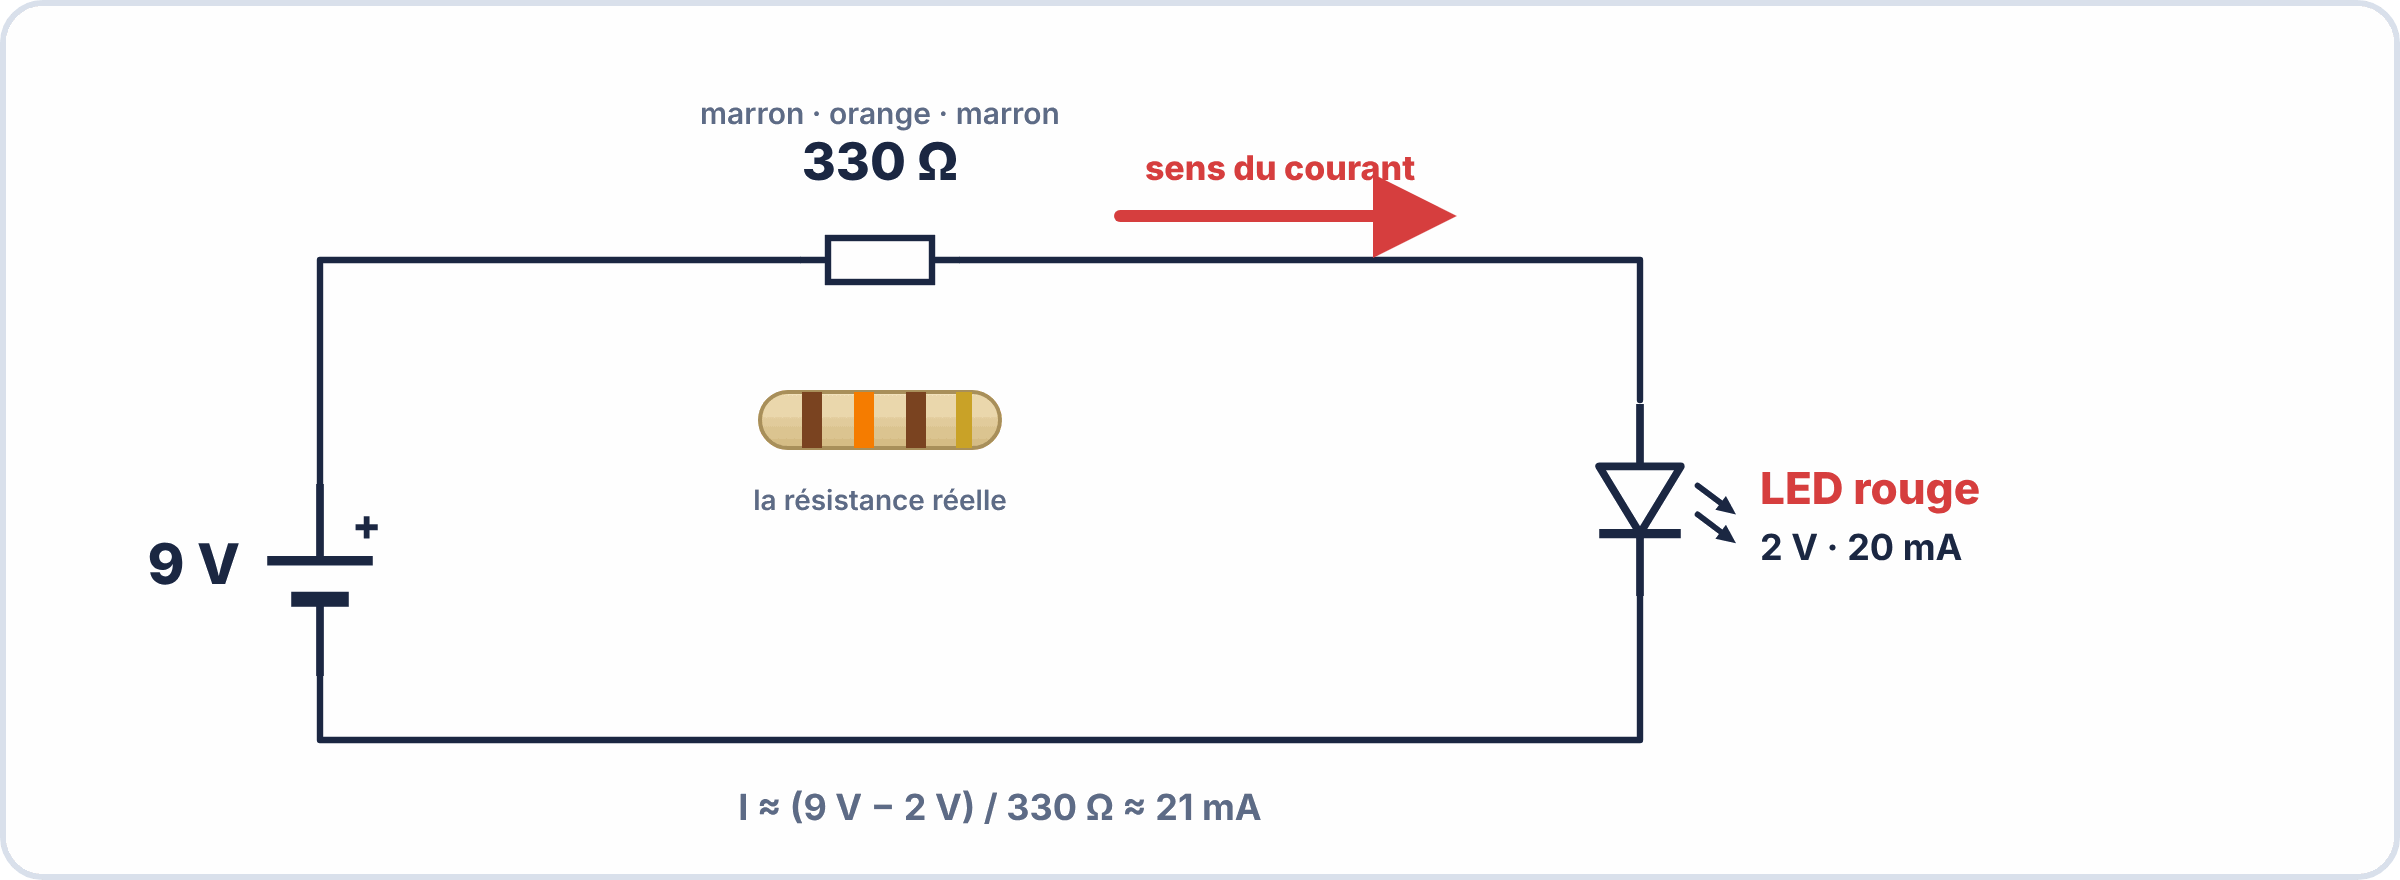
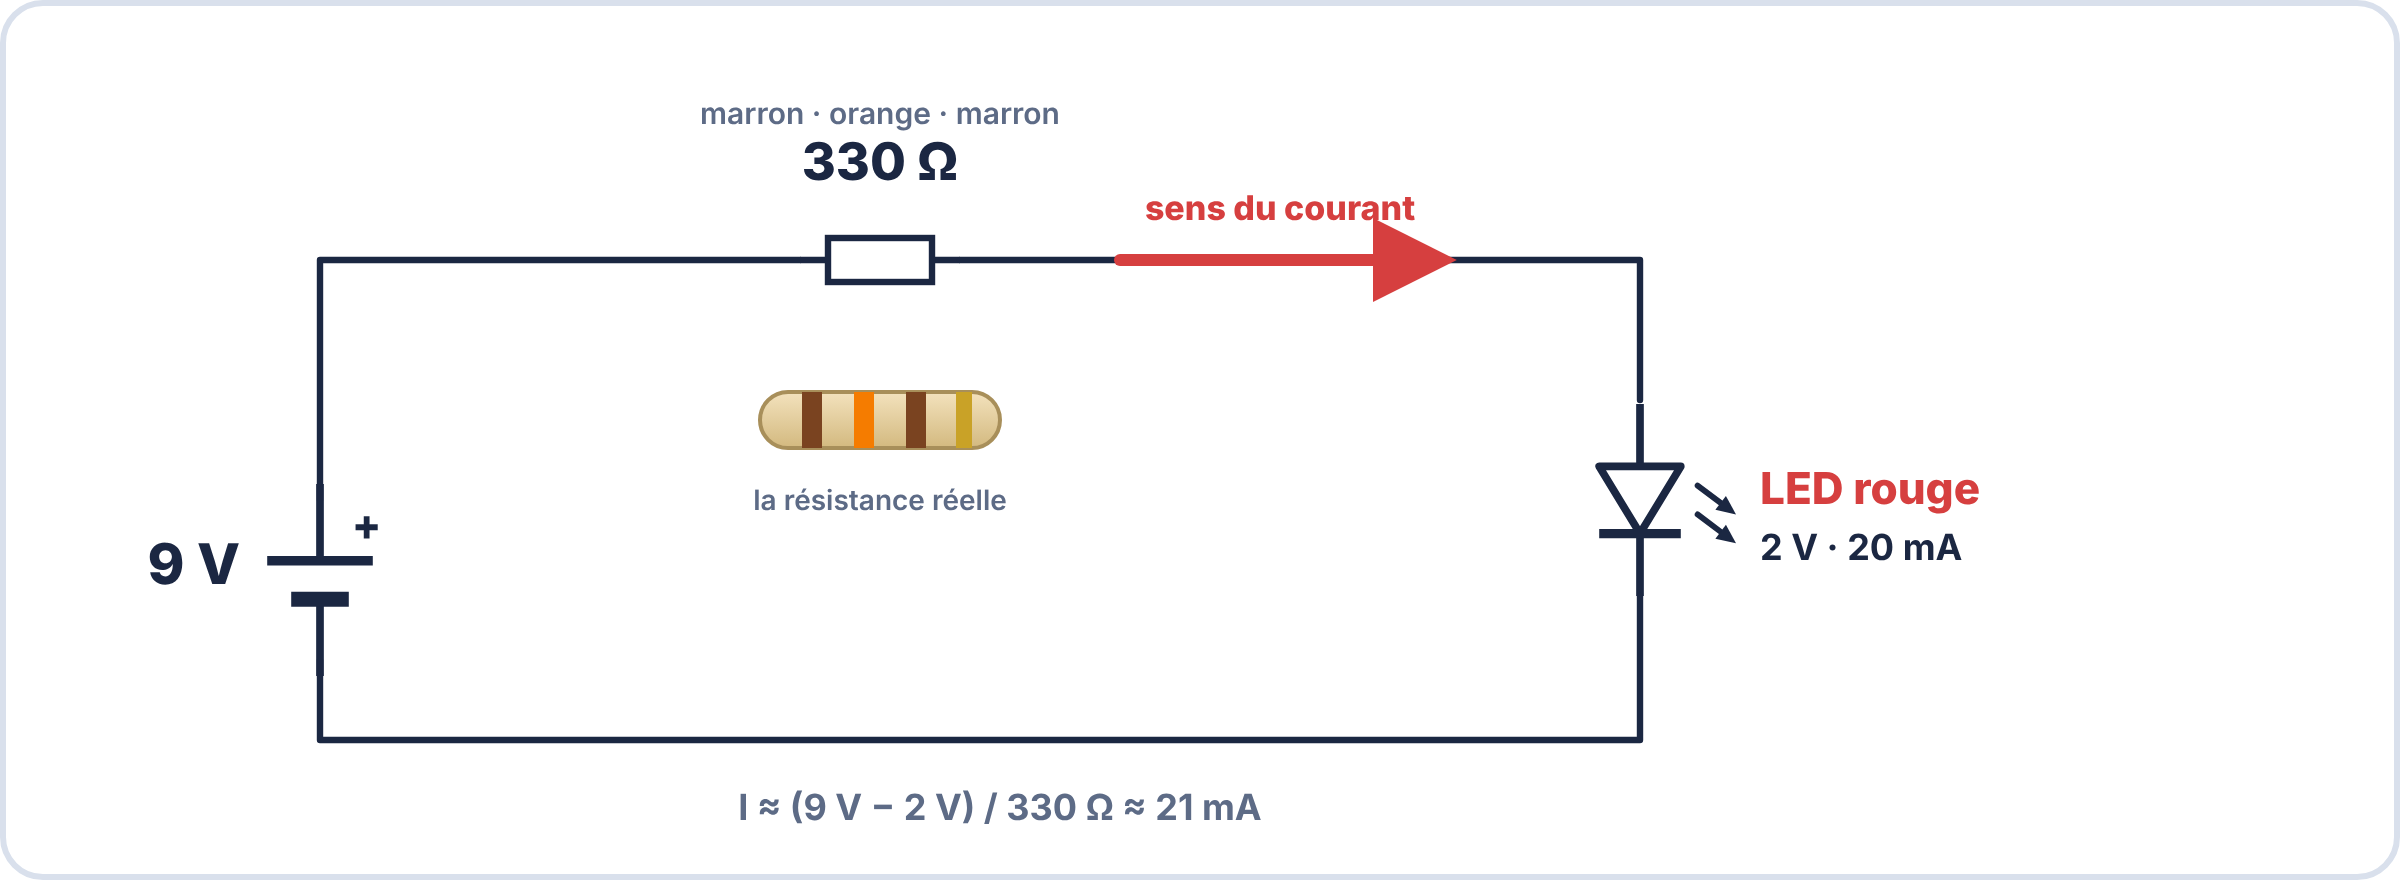
Figures : convention flèches (courant rouge sur la piste, tension verte hors piste) ; DEL du câblage breadboard ; fils +/− du câblage incorrect
Claude-Session: https://claude.ai/code/session_018Ln2Xo12prChdSPrkdSn9D

Changed region(s): [[0.4688, 0.1841, 0.625, 0.3375]]

diff --git a/outils/illustrations-e2/figs_sec5.py b/outils/illustrations-e2/figs_sec5.py
@@ -9,7 +9,7 @@ def f_led_serie():
     o = o.replace("", "")
     o += s_wire([(L, Tp), (R, Tp)]) if False else ""
     o += hrun(Tp, L, R, [(430, "R", "R", {}), (680, "LED", "LED 1", {"below": True}), (900, "LED", "LED 2", {"below": True})]) + s_wire([(R, Tp), (R, B)]) + s_wire([(R, B), (L, B)])
-    o += arrow(220, Tp - 30, 360, Tp - 30, RED, 5) + T(290, Tp - 40, "I", 20, 800, RED) + arrow(R + 40, 170, R + 40, 280, RED, 5) if False else arrow(250, Tp - 56, 360, Tp - 56, RED, 5) + T(300, Tp - 66, "I", 22, 800, RED)
+    o += arrow(220, Tp - 30, 360, Tp - 30, RED, 5) + T(290, Tp - 40, "I", 20, 800, RED) + arrow(R + 40, 170, R + 40, 280, RED, 5) if False else i_arrow(250, Tp, 360, Tp, "I", off=(0, -26), size=22)
     o += T(600, 235, "le même courant I traverse tous les composants", 20, 700, RED)
     o += f'<rect x="130" y="370" width="940" height="130" rx="14" fill="{PANEL}" stroke="#d9e0ec" stroke-width="2"/>'
     o += T(600, 412, "Les tensions s'additionnent : 12 V = U_R + V_F1 + V_F2", 21, 700, INK) + T(600, 452, "R = (12 − 2 − 2) / 0,020 = 400 Ω", 24, 800, BLUE) + T(600, 484, "avec V_F = 2 V par LED rouge et I = 20 mA", 16, 500, MUTED)
@@ -22,8 +22,8 @@ def f_led_parallele():
     for x, nm in ((X1, "LED 1"), (X2, "LED 2")):
         o += s_wire([(J, Tp), (x, Tp)]) + vrun(x, Tp, B, [(230, "LED", nm, {})], 1, 60) + (dot(x, Tp) if x == X1 else "") + (dot(x, B) if x == X1 else "")
     o += s_wire([(L, B), (X2, B)])
-    o += arrow(220, Tp - 56, 330, Tp - 56, RED, 5) + T(262, Tp - 66, "I total", 19, 800, RED)
-    o += arrow(X1 - 40, 160, X1 - 40, 200, RED, 4) + T(X1 - 70, 188, "I1", 18, 800, RED) + arrow(X2 - 40, 160, X2 - 40, 200, RED, 4) + T(X2 - 70, 188, "I2", 18, 800, RED)
+    o += i_arrow(195, Tp, 265, Tp, "I total", off=(0, -26), size=19)
+    o += i_arrow(X1, 150, X1, 190, "I1", off=(-14, 0), size=18, w=4) + i_arrow(X2, 150, X2, 190, "I2", off=(-14, 0), size=18, w=4)
     o += f'<rect x="130" y="385" width="940" height="125" rx="14" fill="{PANEL}" stroke="#d9e0ec" stroke-width="2"/>'
     o += T(600, 425, "Même tension V_F aux bornes de chaque branche · I total = I1 + I2", 20, 700, INK) + T(600, 465, "R = (9 − 2) / (2 × 0,020) = 175 Ω", 24, 800, BLUE) + T(600, 495, "la résistance commune supporte le courant des deux LED", 16, 500, MUTED)
     return figure(W, 540, o)
@@ -41,13 +41,21 @@ def f_cablage_ok_ko():
         def wire(p, q, col): return f'<path d="M{p[0]},{p[1]} L{q[0]},{q[1]}" stroke="{col}" stroke-width="5" stroke-linecap="round"/>'
         def res(p, q): return f'<rect x="{p[0]-2}" y="{p[1]-6}" width="{q[0]-p[0]+4}" height="12" rx="4" fill="#e9d4a3" stroke="#a88"/>' + f'<rect x="{p[0]+14}" y="{p[1]-6}" width="4" height="12" fill="#7a4320"/><rect x="{p[0]+24}" y="{p[1]-6}" width="4" height="12" fill="#000"/><rect x="{p[0]+34}" y="{p[1]-6}" width="4" height="12" fill="#7a4320"/>'
         def resv(p, q): return f'<rect x="{p[0]-6}" y="{p[1]-2}" width="12" height="{q[1]-p[1]+4}" rx="4" fill="#e9d4a3" stroke="#a88"/>' + ''.join(f'<rect x="{p[0]-6}" y="{p[1]+10+i*10}" width="12" height="4" fill="{c}"/>' for i, c in enumerate(("#7a4320", "#000", "#7a4320")))
-        def led(a, k): 
+        def led(a, k):
             cx = (a[0] + k[0]) / 2
-            return f'<path d="M{a[0]},{a[1]} V{a[1]-12} M{k[0]},{k[1]} V{k[1]-12}" stroke="#bbb" stroke-width="3"/><circle cx="{cx}" cy="{a[1]-18}" r="13" fill="#e5353b" stroke="#a11"/>'
+            by = min(a[1], k[1]) - 26          # base du boîtier
+            hw = 10                            # demi-largeur du boîtier
+            xa, xk = (cx - 6, cx + 6) if a[0] <= k[0] else (cx + 6, cx - 6)
+            ya, yk = a[1] - 8, k[1] - 8
+            legs = (f'<path d="M{a[0]},{a[1]} V{ya} L{xa},{by}" fill="none" stroke="#aaa" stroke-width="3" stroke-linecap="round" stroke-linejoin="round"/>'
+                    f'<path d="M{k[0]},{k[1]} V{yk} L{xk},{by}" fill="none" stroke="#aaa" stroke-width="3" stroke-linecap="round" stroke-linejoin="round"/>')
+            body = (f'<path d="M{cx-hw},{by} V{by-6} A{hw},{hw} 0 0 1 {cx+hw},{by-6} V{by} Z" fill="#e5353b" stroke="#a11" stroke-width="1.5"/>'
+                    f'<rect x="{cx-hw-2}" y="{by-2}" width="{2*hw+4}" height="4" rx="2" fill="#c42a30" stroke="#a11" stroke-width="1"/>')
+            return legs + body
         if ok:
             inner += wire(bb.rail(0, "T+"), xy(2, "a"), RED) + res(xy(2, "c"), xy(6, "c")) + led(xy(6, "a"), xy(9, "a")) + wire(xy(9, "b"), bb.rail(10, "T-"), "#111")
         else:
-            inner += wire(bb.rail(0, "T-"), xy(2, "a"), "#111") + resv(xy(2, "b"), xy(2, "e")) + led(xy(6, "a"), xy(6, "b")) + wire(xy(9, "b"), bb.rail(10, "T+"), RED)
+            inner += wire(bb.rail(0, "T+"), xy(2, "a"), "#111") + resv(xy(2, "b"), xy(2, "e")) + led(xy(6, "a"), xy(6, "b")) + wire(xy(9, "b"), bb.rail(10, "T-"), RED)
         return g(ox + 60, 90, inner, s)
     o += duo(0, 0, "Câblage CORRECT", "Câblage INCORRECT", GREEN, RED, h=770, wa=570)
     o += board(40, True) + board(630, False)

diff --git a/outils/illustrations-e2/figs01.py b/outils/illustrations-e2/figs01.py
@@ -113,7 +113,7 @@ def f_diode_led():
     o += callout(120, 190, 100, 245, "anode (A)", "middle", 17, bold=True)
     o += sym("D", 440, 190, s=1.1)
     o += T(404, 236, "A", 19, 800, INK) + T(476, 236, "K", 19, 800, INK)
-    o += arrow(150, 330, 450, 330, GREEN, 5) + T(300, 312, "sens passant du courant", 18, 700, GREEN)
+    o += i_arrow(150, 330, 450, 330, "sens passant du courant", off=(0, -22), size=18)
     o += T(300, 380, "Le courant passe de A vers K, jamais en sens inverse.", 17, 500, MUTED)
     # carte LED
     o += panel(610, 40, 560, 400, "LED (diode électroluminescente)")
@@ -182,24 +182,24 @@ def f_serie_parallele():
         o += s_wire([(L, 210), (L, 130), (px + 470 if k == 0 else px + 470, 130)])
         o += s_wire([(L, 290), (L, 370), (px + 470, 370)])
         o += sym("BAT", L, 250, 90)
-        o += arrow(px + 38, 300, px + 38, 200, BLUE, 4) + T(px + 26, 255, "U", 22, 800, BLUE, "end")
+        o += u_arrow(px + 38, 300, px + 38, 200, "U", off=(-14, 0), size=22)
         if k == 0:
             R = px + 470
             for j in range(3):
                 o += sym("R", R, 170 + j * 80, 90)
-                o += arrow(R - 52, 195 + j * 80, R - 52, 145 + j * 80, BLUE, 4) + T(R - 66, 175 + j * 80, f"U{j+1}", 19, 800, BLUE, "end")
+                o += u_arrow(R - 52, 195 + j * 80, R - 52, 145 + j * 80, f"U{j+1}", off=(-14, 0), size=19)
                 o += T(R + 48, 176 + j * 80, f"R{j+1}", 20, 800, INK, "start")
-            o += arrow(px + 250, 130 - 16, px + 320, 130 - 16, GREEN, 5) + T(px + 285, 88, "I (identique)", 19, 800, GREEN)
+            o += i_arrow(px + 250, 130, px + 330, 130, "I (identique)", off=(0, -26), size=19)
             fm = "Même courant : I = I₁ = I₂ = I₃\nU = U₁ + U₂ + U₃\nR = R₁ + R₂ + R₃"
         else:
             for j, X in enumerate((px + 250, px + 360, px + 470)):
                 o += s_wire([(X, 130), (X, 210)]) + s_wire([(X, 290), (X, 370)])
                 o += sym("R", X, 250, 90) + T(X + 30, 256, f"R{j+1}", 20, 800, INK, "start")
-                o += arrow(X - 22, 160, X - 22, 195, GREEN, 4) + T(X - 30, 185, f"I{j+1}", 18, 800, GREEN, "end")
+                o += i_arrow(X, 150, X, 190, f"I{j+1}", off=(-14, 0), size=18)
                 if j < 2:
                     o += dot(X, 130) + dot(X, 370)
             o += s_wire([(px + 470, 130), (px + 250, 130)]) + s_wire([(px + 470, 370), (px + 250, 370)])
-            o += arrow(L + 20, 112, L + 90, 112, GREEN, 5) + T(L + 55, 90, "I total", 19, 800, GREEN)
+            o += i_arrow(L + 20, 130, L + 100, 130, "I total", off=(0, -26), size=19)
             fm = "Même tension : U = U₁ = U₂ = U₃\nI = I₁ + I₂ + I₃\n1/R = 1/R₁ + 1/R₂ + 1/R₃"
         o += "</g>"
         o += f'<rect x="{px+40}" y="505" width="480" height="150" rx="14" fill="#fff" stroke="#dde4f0" stroke-width="2"/>'
@@ -212,9 +212,9 @@ def f_diviseur():
     o += s_wire([(200, 150), (200, 145)]) + sym("R", 200, 185, 90) + s_wire([(200, 225), (200, 285)]) + sym("R", 200, 325, 90)
     o += s_wire([(200, 365), (200, 420), (440, 420)]) + gnd(310, 420) + dot(310, 420)
     o += T(240, 190, "R1 = 10 kΩ", 20, 800, INK, "start") + T(240, 330, "R2 = 10 kΩ", 20, 800, INK, "start")
-    o += dot(200, 255) + s_wire([(200, 255), (440, 255)]) + node(440, 255) + T(470, 262, "Us", 24, 800, BLUE, "start")
-    o += arrow(100, 410, 100, 120, BLUE, 4) + T(84, 270, "Ue", 24, 800, BLUE, "end")
-    o += arrow(540, 400, 540, 280, GREEN, 4) + T(560, 345, "Us", 22, 800, GREEN, "start")
+    o += dot(200, 255) + s_wire([(200, 255), (440, 255)]) + node(440, 255) + T(470, 262, "Us", 24, 800, INK, "start")
+    o += u_arrow(100, 410, 100, 120, "Ue", off=(-16, 0), size=24)
+    o += u_arrow(540, 400, 540, 280, "Us", off=(20, 0), size=22)
     o += s_wire([(440, 255), (440, 420)])
     o += g(440, 340, '<circle r="30" fill="#fff" stroke="#1b2742" stroke-width="3.2"/><text y="9" font-size="26" font-weight="800" text-anchor="middle" fill="#1b2742">V</text>')
     o += panel(640, 60, 520, 420)

diff --git a/outils/illustrations-e2/figs_essentiel.py b/outils/illustrations-e2/figs_essentiel.py
@@ -98,12 +98,12 @@ def f_mesure_v_a():
     o = panel(30, 30, 560, 430, "Mesurer une TENSION : en parallèle", accent=BLUE)
     o += hrun(150, 90, 520, [(300, "R", "R1", {})]) + vrun(90, 150, 400, [(275, "BAT", "", {})], 1, 0) + s_wire([(520, 150), (520, 400)]) + s_wire([(90, 400), (520, 400)])
     o += s_wire([(260, 150), (260, 235)]) + s_wire([(340, 150), (340, 235)]) + dot(260, 150) + dot(340, 150) + sym("VM", 300, 235)
-    o += s_wire([(260, 235), (260, 235)]) 
+    o += u_arrow(340, 108, 260, 108, "U", off=(0, -18))
     o += cl(140, 320, "voltmètre branché AUX BORNES de R1", BLUE, w=370, size=16)
     o += T(325, 366, "le circuit n'est pas ouvert", 17, 600, MUTED)
     o += panel(610, 30, 560, 430, "Mesurer un COURANT : en série", accent=GREEN)
     o += hrun(150, 670, 1100, [(790, "AM", "", {}), (960, "R", "R1", {})]) + vrun(670, 150, 400, [(275, "BAT", "", {})], 1, 0) + s_wire([(1100, 150), (1100, 400)]) + s_wire([(670, 400), (1100, 400)])
-    o += T(790, 100, "ampèremètre", 18, 800, GREEN)
+    o += T(790, 100, "ampèremètre", 18, 800, GREEN) + i_arrow(840, 150, 910, 150, "I", off=(0, -24))
     o += cl(720, 320, "inséré DANS le circuit : on l'ouvre", GREEN, w=370, size=16)
     o += T(905, 366, "jamais en parallèle (court-circuit)", 17, 700, RED)
     return figure(W, 490, o)
@@ -127,13 +127,14 @@ def f_alim_cv_cc():
 def f_serie_parallele():
     o = panel(30, 30, 560, 400, "Résistances en SÉRIE", accent=BLUE)
     o += hrun(160, 70, 550, [(230, "R", "R1", {}), (400, "R", "R2", {})])
-    o += T(310, 250, "même courant dans toutes", 19, 600, MUTED) + T(310, 310, "Rₑq = R1 + R2", 30, 800, INK)
+    o += i_arrow(280, 160, 350, 160, "I", off=(0, -24)) + T(310, 250, "même courant dans toutes", 19, 600, MUTED) + T(310, 310, "Rₑq = R1 + R2", 30, 800, INK)
     o += T(310, 360, "100 Ω + 220 Ω = 320 Ω", 20, 700, BLUE)
     o += panel(610, 30, 560, 400, "Résistances en PARALLÈLE", accent=GREEN)
     o += s_wire([(650, 230), (700, 230), (700, 150), (1090, 150)]) + s_wire([(700, 230), (700, 310), (1090, 310)]) + dot(700, 230)
     o += sym("R", 880, 150) + sym("R", 880, 310)
     o += s_wire([(1090, 150), (1090, 310)]) + s_wire([(1090, 230), (1140, 230)]) + dot(1090, 230)
     o += T(880, 112, "R1", 20, 800, INK) + T(880, 272, "R2", 20, 800, INK)
+    o += i_arrow(750, 150, 820, 150, "I1", off=(0, -24)) + i_arrow(750, 310, 820, 310, "I2", off=(0, -24))
     o += T(890, 355, "même tension aux bornes", 19, 600, MUTED) + T(890, 392, "1/Rₑq = 1/R1 + 1/R2 ;  100 ∥ 220 ≈ 68,8 Ω", 19, 800, GREEN)
     return figure(W, 460, o)
 

diff --git a/outils/illustrations-e2/figs04.py b/outils/illustrations-e2/figs04.py
@@ -92,6 +92,7 @@ def f_mesure_tension():
     o += s_wire([(760, 300), (760, 340), (600, 340)]) + dot(600, 340)
     o += f'<rect x="570" y="165" width="220" height="190" rx="14" fill="none" stroke="{GREEN}" stroke-width="3" stroke-dasharray="8 6"/>'
     o += T(680, 395, "branché EN PARALLÈLE", 18, 800, GREEN)
+    o += u_arrow(545, 300, 545, 220, "U2", off=(-14, 0), size=20)
     o += panel(850, 60, 300, 380, "Mesure de tension", accent=BLUE)
     o += T(1000, 130, "1  circuit sous tension,\non ne le coupe pas", 17, 600, INK)
     o += T(1000, 215, "2  cordon noir sur COM,\nrouge sur VΩ", 17, 600, INK)
@@ -107,7 +108,7 @@ def f_mesure_courant():
     o += s_wire([(600, 290), (600, 400), (130, 400), (130, 280)]) + sym("BAT", 130, 250, 90)
     o += f'<rect x="270" y="105" width="120" height="70" rx="14" fill="none" stroke="{GREEN}" stroke-width="3" stroke-dasharray="8 6"/>'
     o += T(330, 215, "ampèremètre EN SÉRIE", 18, 800, GREEN)
-    o += arrow(420, 124, 520, 124, GREEN, 5) + T(470, 100, "I", 22, 800, GREEN)
+    o += i_arrow(420, 140, 520, 140, "I", off=(0, -24), size=22)
     o += panel(850, 60, 300, 380, "Mesure de courant", accent=GREEN)
     o += T(1000, 130, "1  ouvrir le circuit\npuis insérer l'appareil", 17, 600, INK)
     o += T(1000, 215, "2  cordon noir sur COM,\nrouge sur mA (ou 10 A)", 17, 600, INK)

diff --git a/outils/illustrations-e2/lib.py b/outils/illustrations-e2/lib.py
@@ -580,6 +580,22 @@ def arrow(x1, y1, x2, y2, color=BLUE, w=4, dash=None):
     return f'<line x1="{x1}" y1="{y1}" x2="{x2}" y2="{y2}" stroke="{color}" stroke-width="{w}" stroke-linecap="round" marker-end="url(#arr)"{da}/>'
 
 
+def i_arrow(x1, y1, x2, y2, label="", off=(0, -24), size=20, w=5):
+    """Flèche de COURANT : rouge, posée SUR la piste (convention). off = décalage de l'étiquette."""
+    o = arrow(x1, y1, x2, y2, RED, w)
+    if label:
+        o += T((x1 + x2) / 2 + off[0], (y1 + y2) / 2 + off[1] + 6, label, size, 800, RED, "middle" if abs(off[0]) < 12 else ("end" if off[0] < 0 else "start"))
+    return o
+
+
+def u_arrow(x1, y1, x2, y2, label="", off=(0, -12), size=20, w=4):
+    """Flèche de TENSION : verte, décalée À CÔTÉ du composant, pointe vers le +. Les coordonnées sont déjà hors piste."""
+    o = arrow(x1, y1, x2, y2, GREEN, w)
+    if label:
+        o += T((x1 + x2) / 2 + off[0], (y1 + y2) / 2 + off[1] + 6, label, size, 800, GREEN, "middle" if abs(off[0]) < 12 else ("end" if off[0] < 0 else "start"))
+    return o
+
+
 def varrow_path(d, color=BLUE, w=4, dash=None):
     da = f' stroke-dasharray="{dash}"' if dash else ""
     return f'<path d="{d}" fill="none" stroke="{color}" stroke-width="{w}" stroke-linecap="round" stroke-linejoin="round" marker-end="url(#arr)"{da}/>'

diff --git a/outils/illustrations-e2/figs_sec4.py b/outils/illustrations-e2/figs_sec4.py
@@ -10,7 +10,7 @@ def f_circuit_led():
     o = s_wire([(160, 250), (160, 130), (400, 130)]) + sym("R", 440, 130) + s_wire([(480, 130), (820, 130), (820, 200)])
     o += sym("LED", 820, 250, 90, s=1.2) + s_wire([(820, 298), (820, 370), (160, 370), (160, 330)]) + sym("BAT", 160, 290, 90, s=1.2)
     o += T(120, 292, "9 V", 28, 800, INK, "end") + T(440, 90, "330 Ω", 26, 800, INK) + T(440, 62, "marron · orange · marron", 15, 600, MUTED) + T(880, 252, "LED rouge", 22, 800, RED, "start") + T(880, 280, "2 V · 20 mA", 18, 700, INK, "start")
-    o += arrow(560, 108, 720, 108, RED, 6) + T(640, 90, "sens du courant", 17, 800, RED)
+    o += i_arrow(560, 130, 720, 130, "sens du courant", off=(0, -26), size=17, w=6)
     o += T(215, 270, "+", 26, 800, INK) if False else ""
     o += g(440, 210, '<rect x="-60" y="-14" width="120" height="28" rx="14" fill="url(#beige)" stroke="#a88f5a" stroke-width="2"/>' + ''.join(f'<rect x="{x-5}" y="-14" width="10" height="28" fill="{COLORS[c]}"/>' for x, c in ((-34, "marron"), (-8, "orange"), (18, "marron"))) + f'<rect x="38" y="-14" width="8" height="28" fill="{COLORS["or"]}"/>', 1)
     o += T(440, 255, "la résistance réelle", 14, 600, MUTED)

diff --git a/outils/illustrations-e2/figs_sec.py b/outils/illustrations-e2/figs_sec.py
@@ -94,8 +94,8 @@ def f_eau():
     o += sym("BAT", 730, 350, 90)
     o += T(730, 112, "Pile = générateur", 17, 700, INK) + g(730, 170, '<rect x="-24" y="-38" width="48" height="76" rx="8" fill="#2d9a4a"/><rect x="-24" y="-38" width="48" height="26" rx="8" fill="#1a1a1a"/><rect x="-11" y="-48" width="22" height="10" rx="3" fill="url(#metalH)"/>' + T(0, -17, "+", 20, 800, "#fff"))
     o += T(870, 195, "résistance R", 16, 700, INK) + T(1030, 360, "lampe", 17, 700, INK, "end") + T(1030, 382, "(charge)", 14, 500, MUTED, "end")
-    o += arrow(940, 200, 1010, 200, GREEN, 5) + T(975, 180, "courant I", 17, 700, GREEN)
-    o += T(790, 355, "tension U", 15, 700, INK, "start")
+    o += i_arrow(940, 230, 1010, 230, "courant I", off=(0, -24), size=17)
+    o += u_arrow(772, 385, 772, 315) + T(786, 355, "tension U", 15, 700, GREEN, "start")
     o += chip(600, 600, "Hauteur d'eau = tension U  ·  Débit = intensité I  ·  Tuyau étroit = résistance R  ·  Pompe = générateur", INK, w=1130, size=17)
     return figure(W, 640, o)
 
